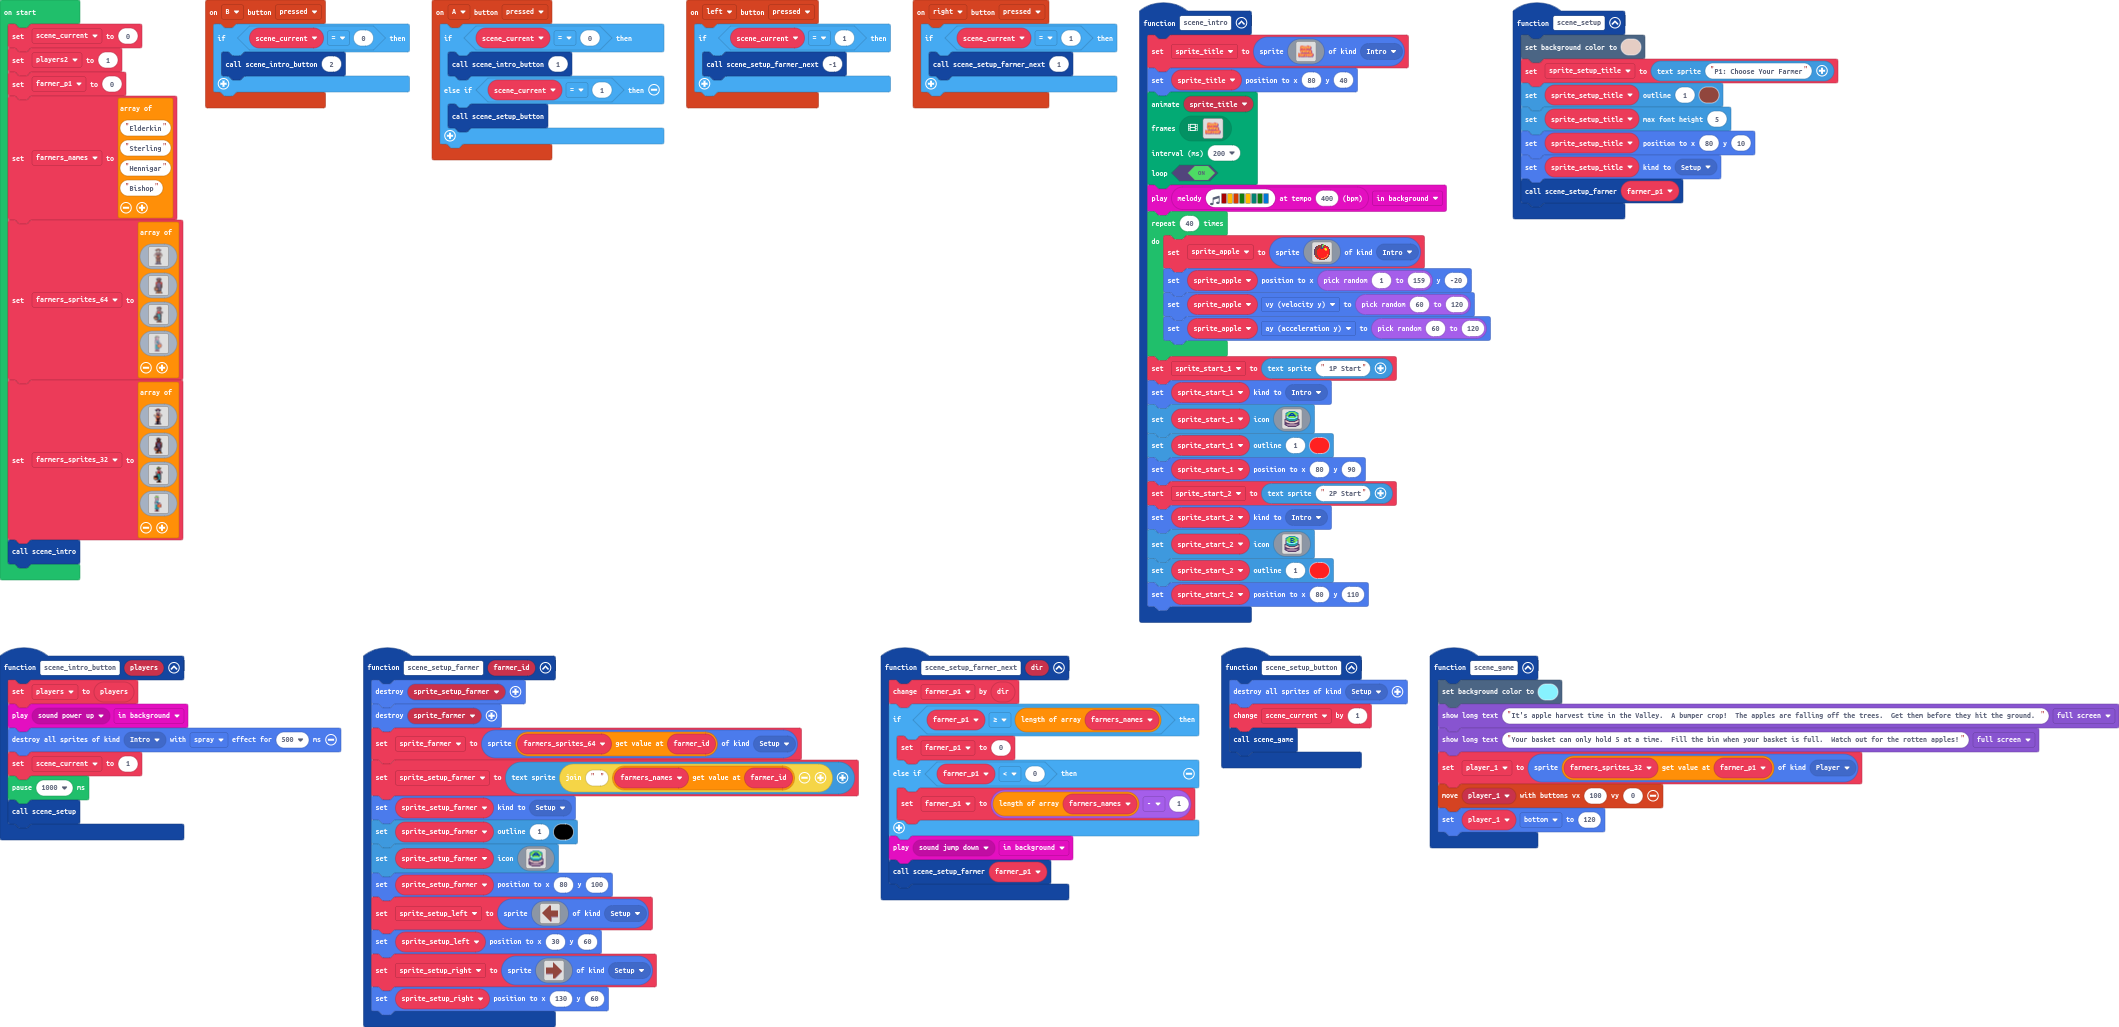
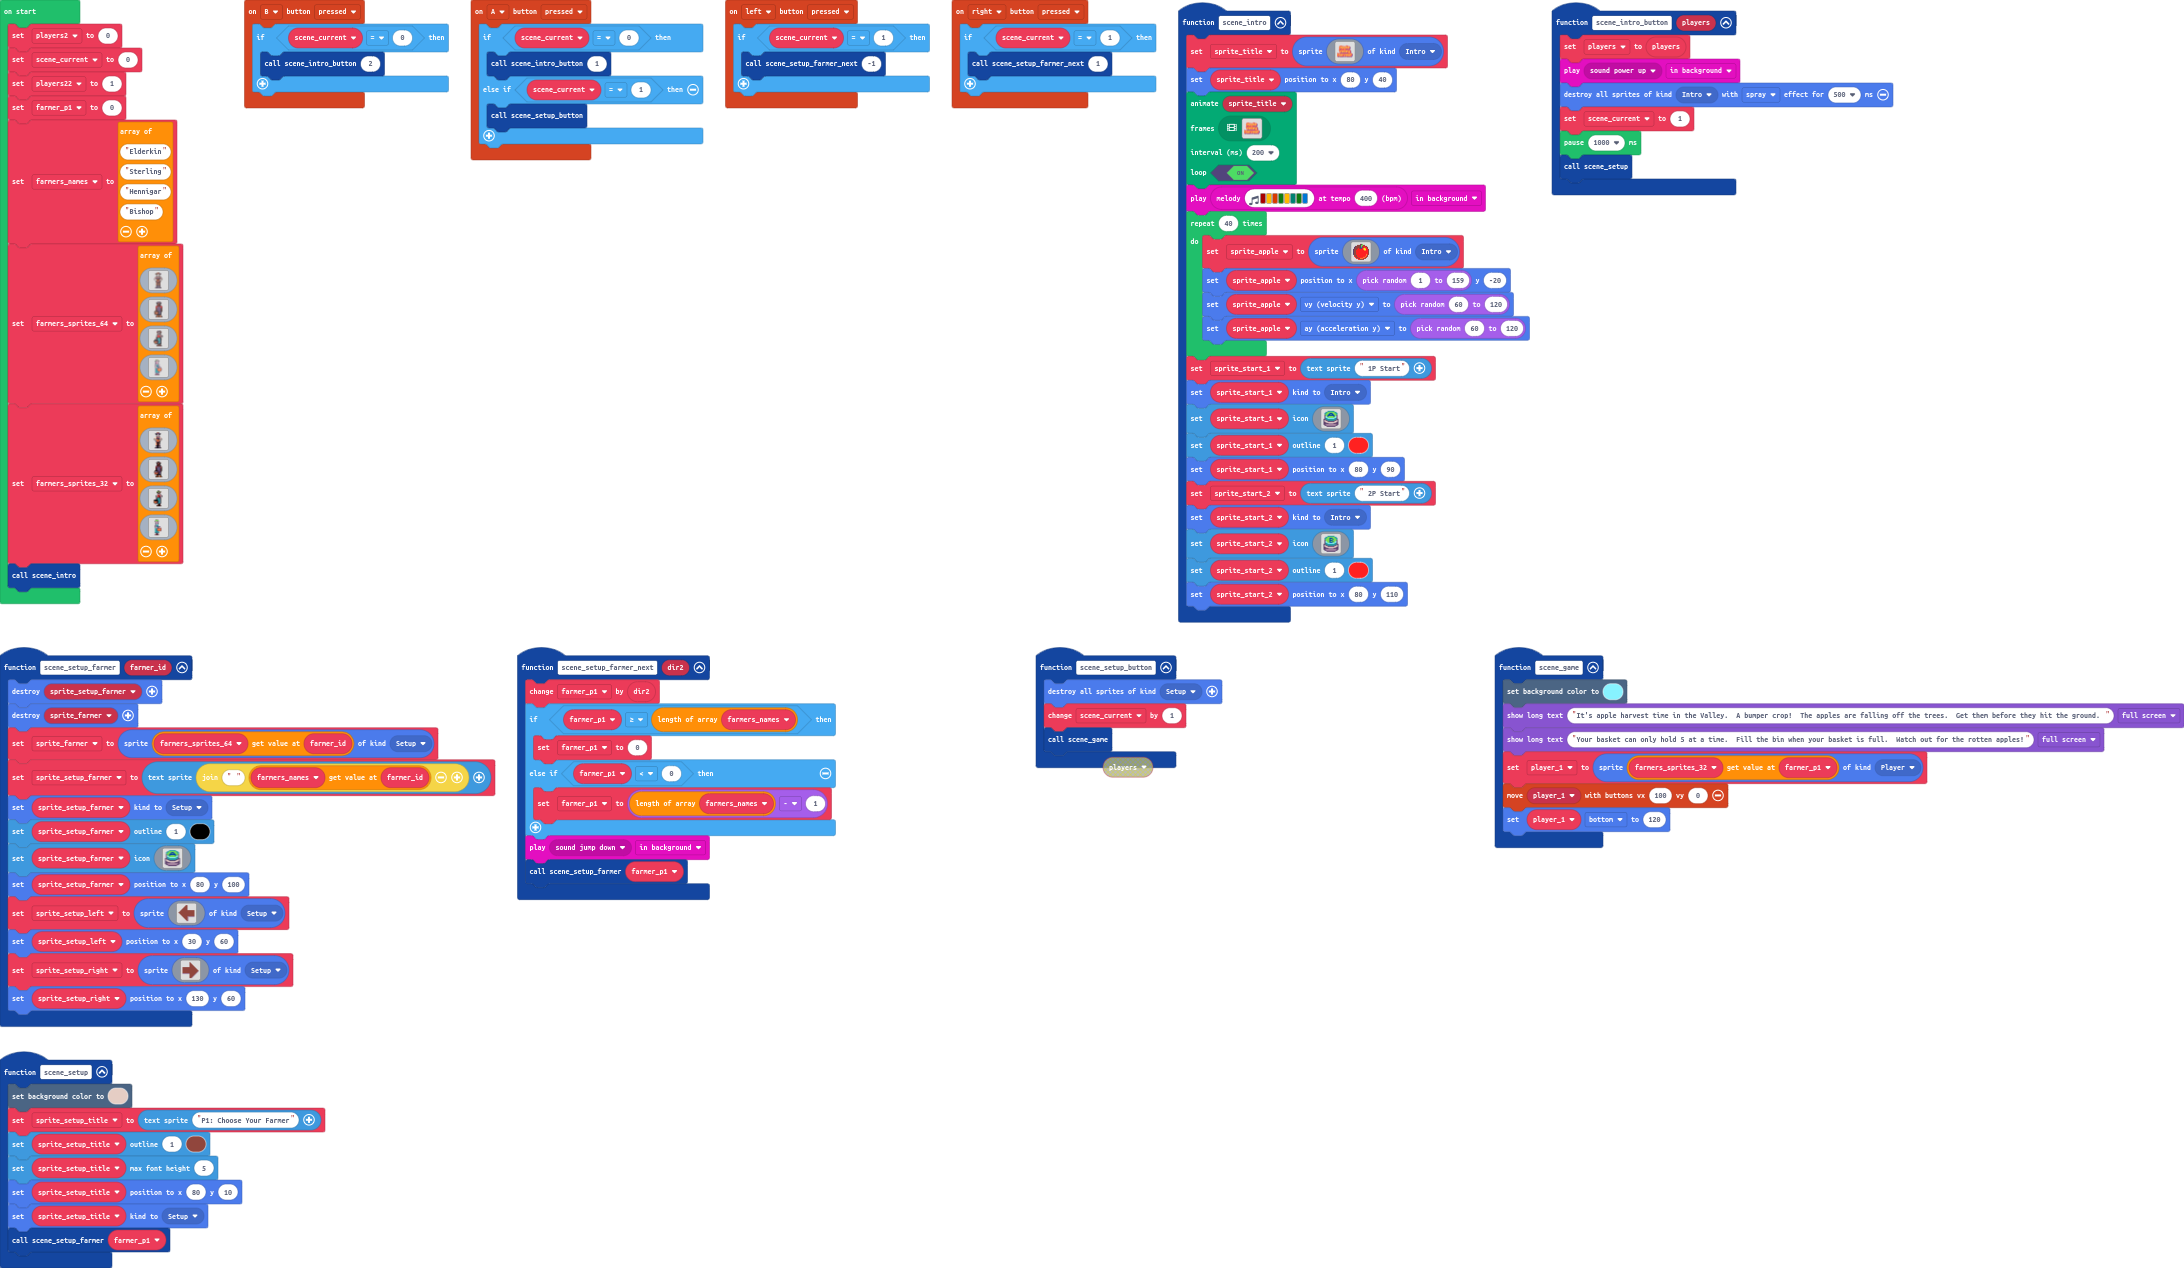
Update pxt.json, main.blocks, main.ts

diff --git a/main.ts b/main.ts
@@ -3,8 +3,8 @@ namespace SpriteKind {
     export const Intro = SpriteKind.create()
     export const Setup = SpriteKind.create()
 }
-function scene_setup_farmer_next (dir: number) {
-    farmer_p1 += dir
+function scene_setup_farmer_next (dir2: number) {
+    farmer_p1 += dir2
     if (farmer_p1 >= farmers_names.length) {
         farmer_p1 = 0
     } else if (farmer_p1 < 0) {
@@ -122,8 +122,9 @@ let farmers_sprites_64: Image[] = []
 let farmers_names: string[] = []
 let farmer_p1 = 0
 let scene_current = 0
+let players2 = 0
 scene_current = 0
-let players2 = 1
+let players22 = 1
 farmer_p1 = 0
 farmers_names = [
 "Elderkin",
